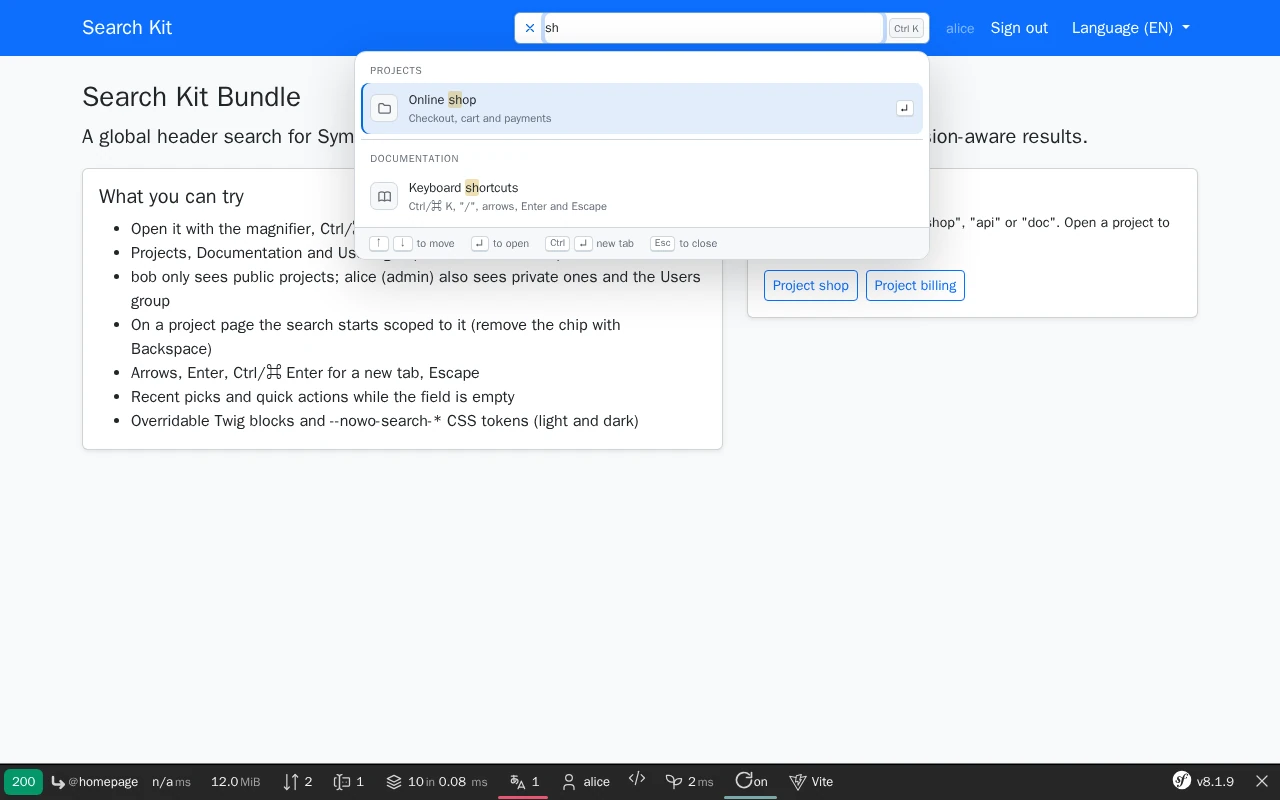
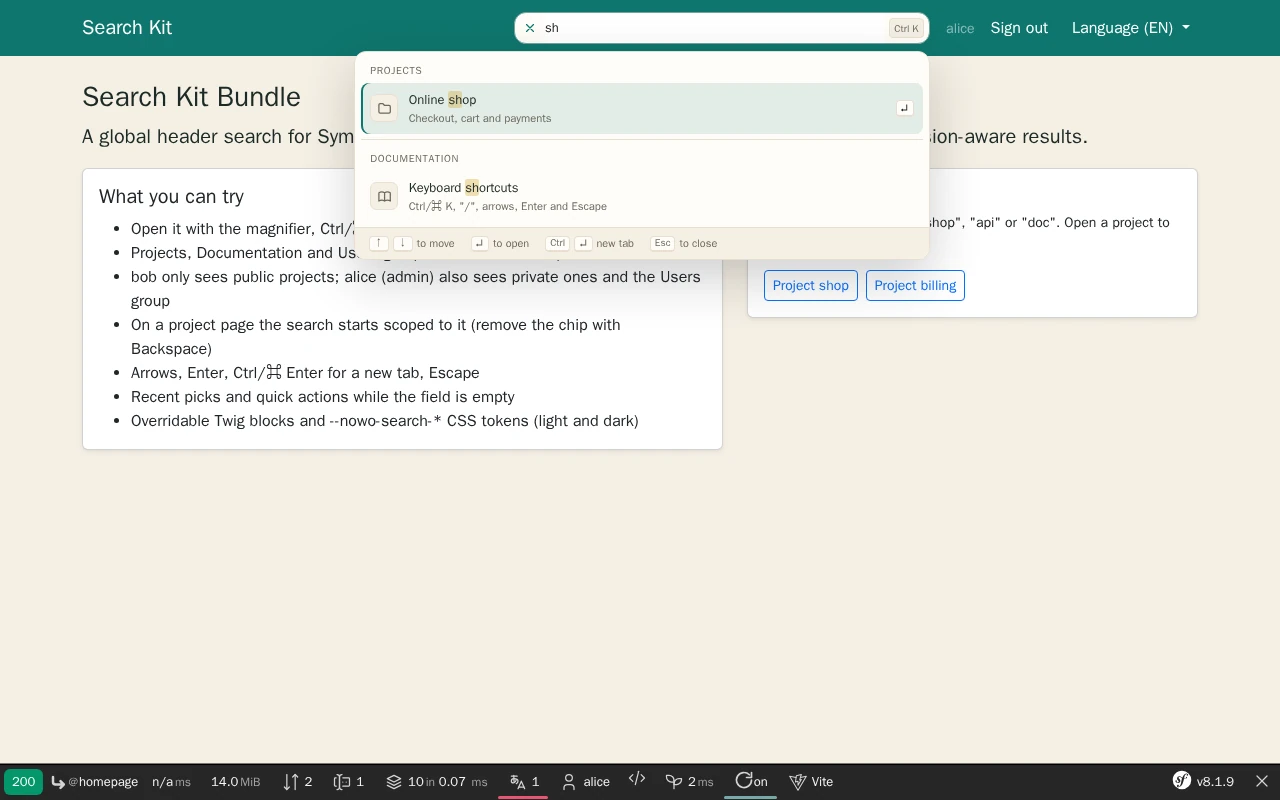
docs(demo): optional UiKit integration in the demo, README, screenshot (REQ-UI-003, REQ-DEMO-013)
- Demo layout on the UiKit document layout with the shared host theme tokens; host class on the btn_icon
  slot of NowoSearchKitBundle; e2e asserts it; re-captured overview.webp.
- README feature line and Templates link; demo README.

diff --git a/demo/symfony8/e2e/tests/demo.spec.ts b/demo/symfony8/e2e/tests/demo.spec.ts
@@ -28,6 +28,9 @@ test.describe('search kit demo', () => {
     const field = search.getByRole('combobox');
     await expect(field).not.toBeVisible();
 
+    // Optional UiKit integration (REQ-UI-003): the host class of the btn_icon slot reaches the toggle.
+    await expect(page.getByTestId('nowo-search-toggle')).toHaveClass('nowo-search__toggle demo-search-toggle');
+    await expect(search).toHaveAttribute('data-nowo-ui-bundle', 'NowoSearchKitBundle');
     await page.getByTestId('nowo-search-toggle').click();
     await expect(search).toHaveClass(/is-open/);
     await expect(field).toBeFocused();

diff --git a/demo/symfony8/public/demo.css b/demo/symfony8/public/demo.css
@@ -1,0 +1,4 @@
+/* Demo host styles: colours from the UiKit tokens (config/packages/nowo_ui_kit.yaml). */
+body.nowo-ui-body { padding: 0; background: var(--nowo-ui-surface-muted); color: var(--nowo-ui-text); }
+.demo-navbar { background: var(--nowo-ui-primary); }
+.demo-search-toggle { color: var(--nowo-ui-primary); }

diff --git a/demo/symfony8/config/bundles.php b/demo/symfony8/config/bundles.php
@@ -11,6 +11,7 @@ return [
     Symfony\Bundle\WebProfilerBundle\WebProfilerBundle::class => ['dev' => true, 'test' => true],
     Symfony\Bundle\DebugBundle\DebugBundle::class => ['dev' => true, 'test' => true],
     Symfony\UX\Icons\UXIconsBundle::class => ['all' => true],
+    Nowo\UiKitBundle\NowoUiKitBundle::class => ['all' => true],
     Nowo\SearchKitBundle\NowoSearchKitBundle::class => ['all' => true],
     Nowo\HotReloadBundle\NowoHotReloadBundle::class => ['dev' => true, 'test' => true],
     Nowo\TwigInspectorBundle\NowoTwigInspectorBundle::class => ['dev' => true, 'test' => true],

diff --git a/README.md b/README.md
@@ -25,6 +25,7 @@ This bundle is **FrankenPHP worker mode friendly**. See [docs/FRANKENPHP-WORKER-
 - **Recents** (per browser, `localStorage`, text only — never HTML) and configurable **quick actions** while the query is empty
 - **Safe rendering**: user text is escaped and highlighted with `<mark>` through DOM nodes; only same-site paths or http(s) URLs are ever navigated
 - **Debounced, aborted requests**; JSON endpoint rate limited per user, `Cache-Control: no-store, private`, 429 `{"error": "rate_limited"}`
+- **Optional UiKit integration** (REQ-UI-003): with `nowo-tech/ui-kit-bundle` ^2.2 the widget takes the host classes of the UiKit theme slots and the `--nowo-search-*` tokens follow the UiKit tokens ([templates](docs/TEMPLATES.md))
 - **Overridable Twig blocks**, **theme tokens** (`--nowo-search-*`, light / dark), **Symfony UX Icons** with a built-in SVG fallback
 - Framework-agnostic browser module (auto-mounted IIFE), an optional **Stimulus** wrapper and `nowo-search:state` / `nowo-search:navigate` events (morphing icons, Turbo)
 - **FrankenPHP worker mode** friendly; 7 locales (en, es, fr, de, it, pt, nl)
@@ -124,6 +125,7 @@ and `make -C demo/symfony8 demo-screenshots` (see [docs/CONTRIBUTING.md](docs/CO
 - [Installation](docs/INSTALLATION.md)
 - [Configuration](docs/CONFIGURATION.md)
 - [Usage](docs/USAGE.md)
+- [Templates (UiKit page contract)](docs/TEMPLATES.md)
 - [Contributing](docs/CONTRIBUTING.md)
 - [Code of Conduct](CODE_OF_CONDUCT.md)
 - [Changelog](docs/CHANGELOG.md)

diff --git a/demo/README.md b/demo/README.md
@@ -2,7 +2,9 @@
 
 FrankenPHP demo for **Symfony 8.1** (PHP 8.5) with the header search in the navbar: in-memory users, three demo
 providers in `src/Search/` (Projects with per-user access, Documentation, admin-only Users) and a scope resolver for
-project pages. No database.
+project pages. No database. The layout extends the UiKit document layout with the host theme tokens of
+`config/packages/nowo_ui_kit.yaml` (optional UiKit integration, REQ-UI-003): the search follows the tokens and the
+toggle gets the host class `demo-search-toggle` from `theme.bundles.NowoSearchKitBundle.classes.btn_icon`.
 
 ## Accounts
 
